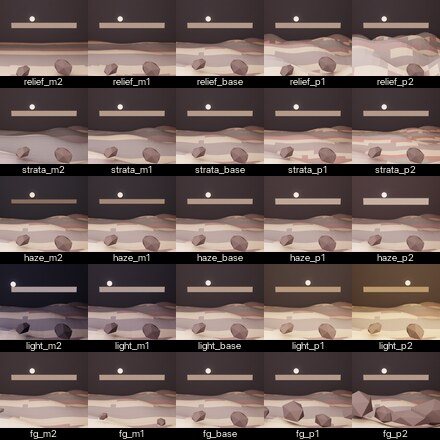
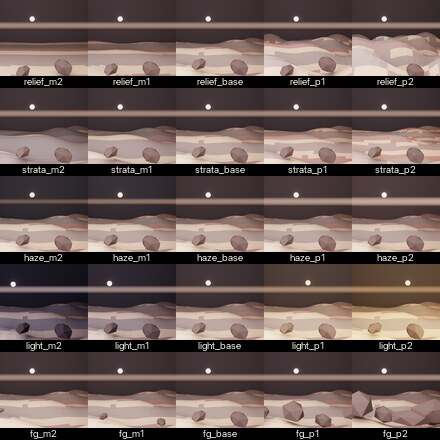
Add soft horizon band primitive

diff --git a/src/blender_workbench/primitives.py b/src/blender_workbench/primitives.py
@@ -1,0 +1,93 @@
+from __future__ import annotations
+
+import math
+from typing import Any
+
+
+def soft_band_alpha_profile(alpha: float, feather_steps: int = 4, *, falloff_power: float = 1.7) -> tuple[float, ...]:
+    """Return symmetric alpha values for a feathered light or haze band."""
+    if not 0.0 <= alpha <= 1.0:
+        raise ValueError(f"alpha must be in [0, 1], got {alpha!r}")
+    if feather_steps < 0:
+        raise ValueError(f"feather_steps must be >= 0, got {feather_steps!r}")
+    if feather_steps == 0:
+        return (alpha,)
+
+    edge_values = []
+    for index in range(feather_steps):
+        t = (index + 1) / (feather_steps + 1)
+        edge_values.append(alpha * (t**falloff_power))
+    return (*edge_values, alpha, *reversed(edge_values))
+
+
+def _soft_band_material(name: str, color, strength: float, alpha: float, center_fraction: float):
+    import bpy
+
+    mat = bpy.data.materials.new(name)
+    mat.use_nodes = True
+    mat.blend_method = "BLEND"
+    mat.use_screen_refraction = True
+    nodes = mat.node_tree.nodes
+    nodes.clear()
+
+    coord = nodes.new(type="ShaderNodeTexCoord")
+    separate = nodes.new(type="ShaderNodeSeparateXYZ")
+    ramp = nodes.new(type="ShaderNodeValToRGB")
+    lower = max(0.02, 0.5 - center_fraction * 0.5)
+    upper = min(0.98, 0.5 + center_fraction * 0.5)
+    ramp.color_ramp.elements[0].position = 0.0
+    ramp.color_ramp.elements[0].color = (0.0, 0.0, 0.0, 1.0)
+    ramp.color_ramp.elements[1].position = 1.0
+    ramp.color_ramp.elements[1].color = (0.0, 0.0, 0.0, 1.0)
+    left = ramp.color_ramp.elements.new(lower)
+    left.color = (alpha, alpha, alpha, 1.0)
+    right = ramp.color_ramp.elements.new(upper)
+    right.color = (alpha, alpha, alpha, 1.0)
+
+    transparent = nodes.new(type="ShaderNodeBsdfTransparent")
+    emission = nodes.new(type="ShaderNodeEmission")
+    emission.inputs["Color"].default_value = color
+    emission.inputs["Strength"].default_value = strength
+    mix = nodes.new(type="ShaderNodeMixShader")
+    out = nodes.new(type="ShaderNodeOutputMaterial")
+
+    mat.node_tree.links.new(coord.outputs["Generated"], separate.inputs["Vector"])
+    mat.node_tree.links.new(separate.outputs["Y"], ramp.inputs["Fac"])
+    mat.node_tree.links.new(ramp.outputs["Color"], mix.inputs["Fac"])
+    mat.node_tree.links.new(transparent.outputs["BSDF"], mix.inputs[1])
+    mat.node_tree.links.new(emission.outputs["Emission"], mix.inputs[2])
+    mat.node_tree.links.new(mix.outputs["Shader"], out.inputs["Surface"])
+    return mat
+
+
+def add_soft_horizon_band(
+    *,
+    name: str,
+    location: tuple[float, float, float],
+    width: float,
+    height: float,
+    color,
+    strength: float,
+    alpha: float = 0.55,
+    feather_steps: int = 4,
+    center_fraction: float = 0.34,
+) -> list[Any]:
+    """Add a feathered vertical light card with generated-coordinate alpha.
+
+    This avoids hard card edges in selected renders without requiring compositor
+    nodes or simulations.
+    """
+    import bpy
+
+    soft_band_alpha_profile(alpha, feather_steps)
+    center_fraction = center_fraction / (1.0 + max(0, feather_steps) * 0.12)
+    center_fraction = max(0.05, min(0.9, center_fraction))
+    mat = _soft_band_material(f"{name} soft gradient material", color, strength, alpha, center_fraction)
+    bpy.ops.mesh.primitive_plane_add(size=1, location=location, rotation=(math.pi / 2, 0, 0))
+    band = bpy.context.object
+    band.name = name
+    band.scale = (width, height, 1.0)
+    band.data.materials.append(mat)
+    if hasattr(band, "visible_shadow"):
+        band.visible_shadow = False
+    return [band]

diff --git a/src/blender_workbench/recipes/terrain_environment.py b/src/blender_workbench/recipes/terrain_environment.py
@@ -8,6 +8,7 @@ from typing import Any
 
 from blender_workbench.camera import add_orbit_camera, look_at
 from blender_workbench.materials import emission_material, principled_material
+from blender_workbench.primitives import add_soft_horizon_band
 from blender_workbench.sweep import SweepVariant
 
 
@@ -218,7 +219,6 @@ def _add_sky_and_haze(settings: TerrainEnvironmentSettings) -> None:
 
     sky = principled_material("cold europa sky", (0.055, 0.075, 0.105, 1.0), roughness=1.0)
     glow_color = _mix((0.50, 0.62, 1.0, 1.0), (1.0, 0.54, 0.22, 1.0), settings.sun_warmth)
-    glow = emission_material("horizon glow band", glow_color, 0.18 + settings.horizon_glow * 0.65)
     sun = emission_material("small low sun disk", glow_color, 1.8 + settings.horizon_glow * 2.2)
 
     bpy.ops.mesh.primitive_plane_add(size=8.2, location=(0, 5.05, 1.75), rotation=(math.pi / 2, 0, 0))
@@ -227,11 +227,16 @@ def _add_sky_and_haze(settings: TerrainEnvironmentSettings) -> None:
     sky_obj.scale.z = 0.65
     sky_obj.data.materials.append(sky)
 
-    bpy.ops.mesh.primitive_cube_add(size=1, location=(0, 4.98, 0.72))
-    glow_obj = bpy.context.object
-    glow_obj.name = "low horizon glow strip"
-    glow_obj.scale = (4.2, 0.018, 0.24 + settings.horizon_glow * 0.22)
-    glow_obj.data.materials.append(glow)
+    add_soft_horizon_band(
+        name="low horizon glow",
+        location=(0, 4.98, 0.72),
+        width=7.4,
+        height=0.34 + settings.horizon_glow * 0.32,
+        color=glow_color,
+        strength=0.28 + settings.horizon_glow * 0.85,
+        alpha=0.36 + settings.horizon_glow * 0.26,
+        feather_steps=4,
+    )
 
     sun_x = math.sin(math.radians(settings.sun_angle)) * 2.4
     sun_z = 0.93 + math.cos(math.radians(settings.sun_angle)) * 0.22

diff --git a/tests/test_sweep.py b/tests/test_sweep.py
@@ -2,6 +2,7 @@ import unittest
 
 from blender_workbench.camera import camera_distance_for_matching_framing, orbit_location
 from blender_workbench.presets import RENDER_PRESETS, SWEEP_AXES, TILE_PRESETS, one_axis_variants, stride_axis, two_axis_variants
+from blender_workbench.primitives import soft_band_alpha_profile
 from blender_workbench.recipes.camera_perspective import (
     CameraPerspectiveSettings,
     camera_perspective_variants,
@@ -130,6 +131,21 @@ class SweepTests(unittest.TestCase):
 
         self.assertEqual([label for label, _ in axis.values], ["m2", "base", "p2"])
         self.assertEqual([settings["texture_magnitude"] for _, settings in axis.values], [0.0, 0.5, 1.0])
+
+    def test_soft_band_alpha_profile_feathers_edges(self):
+        profile = soft_band_alpha_profile(0.8, feather_steps=3)
+
+        self.assertEqual(len(profile), 7)
+        self.assertEqual(profile, tuple(reversed(profile)))
+        self.assertAlmostEqual(profile[3], 0.8)
+        self.assertLess(profile[0], profile[1])
+        self.assertLess(profile[1], profile[2])
+
+    def test_soft_band_alpha_profile_validates_inputs(self):
+        with self.assertRaisesRegex(ValueError, "alpha"):
+            soft_band_alpha_profile(1.2)
+        with self.assertRaisesRegex(ValueError, "feather_steps"):
+            soft_band_alpha_profile(0.5, feather_steps=-1)
 
     def test_render_config_profiles_are_ordered_by_cost(self):
         self.assertEqual(RenderConfig.shape_scout().engine, "BLENDER_WORKBENCH")

diff --git a/src/blender_workbench/__init__.py b/src/blender_workbench/__init__.py
@@ -2,6 +2,7 @@
 
 from .camera import add_orbit_camera, camera_distance_for_matching_framing, look_at, orbit_location
 from .presets import RENDER_PRESETS, SWEEP_AXES, TILE_PRESETS, SweepAxis, one_axis_variants, stride_axis, two_axis_variants
+from .primitives import add_soft_horizon_band, soft_band_alpha_profile
 from .sweep import (
     RenderConfig,
     RenderResult,
@@ -17,6 +18,7 @@ from .sweep import (
 
 __all__ = [
     "add_orbit_camera",
+    "add_soft_horizon_band",
     "camera_distance_for_matching_framing",
     "RenderConfig",
     "RenderResult",
@@ -35,6 +37,7 @@ __all__ = [
     "render_selected_variant",
     "render_sweep",
     "select_variant",
+    "soft_band_alpha_profile",
     "stride_axis",
     "two_axis_variants",
 ]

diff --git a/README.md b/README.md
@@ -9,6 +9,7 @@ This repo grew out of the lighting/plume studies in the neighboring Blender scen
 - `blender_workbench.sweep`: render a list/grid of variants, write raw/finished PNGs, metadata, README, contact sheets, and selected hero renders.
 - `blender_workbench.camera`: orbit-camera helpers plus lens/distance matching for perspective studies.
 - `blender_workbench.materials`: small material helpers with explicit alpha, emission, and subsurface semantics.
+- `blender_workbench.primitives`: reusable low-cost scene primitives such as feathered horizon/light bands.
 - `blender_workbench.presets`: starter axes, render profiles, and tile layouts for common visual experiments.
 - `blender_workbench.recipes`: optional domain recipes, including a fast rocket vacuum plume scout.
 - `examples/camera_perspective_scout.py`: same-view lens and scene-depth cue stride board.
@@ -180,6 +181,8 @@ Run the landscape/environment mood scout:
 ```
 
 This uses `blender_workbench.recipes.terrain_environment` to compare terrain relief, strata contrast, horizon haze, backlight, and foreground scale as a 5x5 same-view stride sheet. It is based on the BlenderArt issue 39 landscape/Europa and virtual-environment prompts.
+
+The recipe uses `blender_workbench.primitives.add_soft_horizon_band` for the low glow card, because hard rectangular haze/light cards can pass in tiny tiles and then fail in the selected hero render.
 
 After inspecting the sheet, promote one tile:
 

diff --git a/docs/learning-notes.md b/docs/learning-notes.md
@@ -29,3 +29,4 @@ This is a compact map from the local BlenderArt/resource shelf to workbench exer
 - Same-y boards usually mean the stride is too small. Use 5x5 stride sheets with one variable per row before adding more hand-picked named cases.
 - Visible light geometry is a useful diagnostic object, not only a renderer feature. Mesh-light boards should show both illumination on the subject and the light source's shape/gel behavior when possible.
 - Environment boards need foreground, midground, and horizon diagnostics in the same tile. Terrain relief alone is too abstract unless haze, strata, and silhouette scale are visible together.
+- Selected renders are better at exposing hard card edges than tiny contact sheets. Use reusable feathered primitives for horizon glow, haze sheets, and stylized light cards.

diff --git a/docs/performance.md b/docs/performance.md
@@ -33,6 +33,7 @@ config = replace(
 - Keep camera perspective scouts cheap: the variable is usually lens or scene depth cues, not samples.
 - Keep mesh-light scouts low-sample until shape, distance, and fill are chosen; emitter noise is acceptable in the first board.
 - Keep terrain environment scouts flat-shaded and low-grid until relief, haze, and horizon mood are chosen.
+- Prefer feathered card primitives over full volumetrics when the visual question is only horizon glow or light-sheet softness.
 - Keep `build_scene(settings)` cheap: avoid simulations, huge mesh generation, high subdivision, and expensive boolean stacks in the first pass.
 - Add detail in stages: silhouette, material, lighting, camera, then heavier bake.
 - When a numeric sweep looks timid, increase the `stride_axis(...)` stride and rerun. When every tile fails, reduce the stride or add failure anchors at the extremes.

diff --git a/docs/sweep-catalog.md b/docs/sweep-catalog.md
@@ -52,6 +52,7 @@ Keep one deliberate failure anchor in material sheets. It calibrates the eye and
 - light source size: pin, softbox, sky panel
 - mesh light: emissive size, distance, height, fill, gel/shape
 - terrain environment: relief, strata contrast, horizon haze, backlight, foreground scale
+- soft atmosphere cards: feather steps, alpha, glow strength, band height
 - sunset haze: sky color, horizon color, haze density
 - moonrise trail: streak warmth, halo radius, sky exposure
 - glow bloom: dry, rim, washed